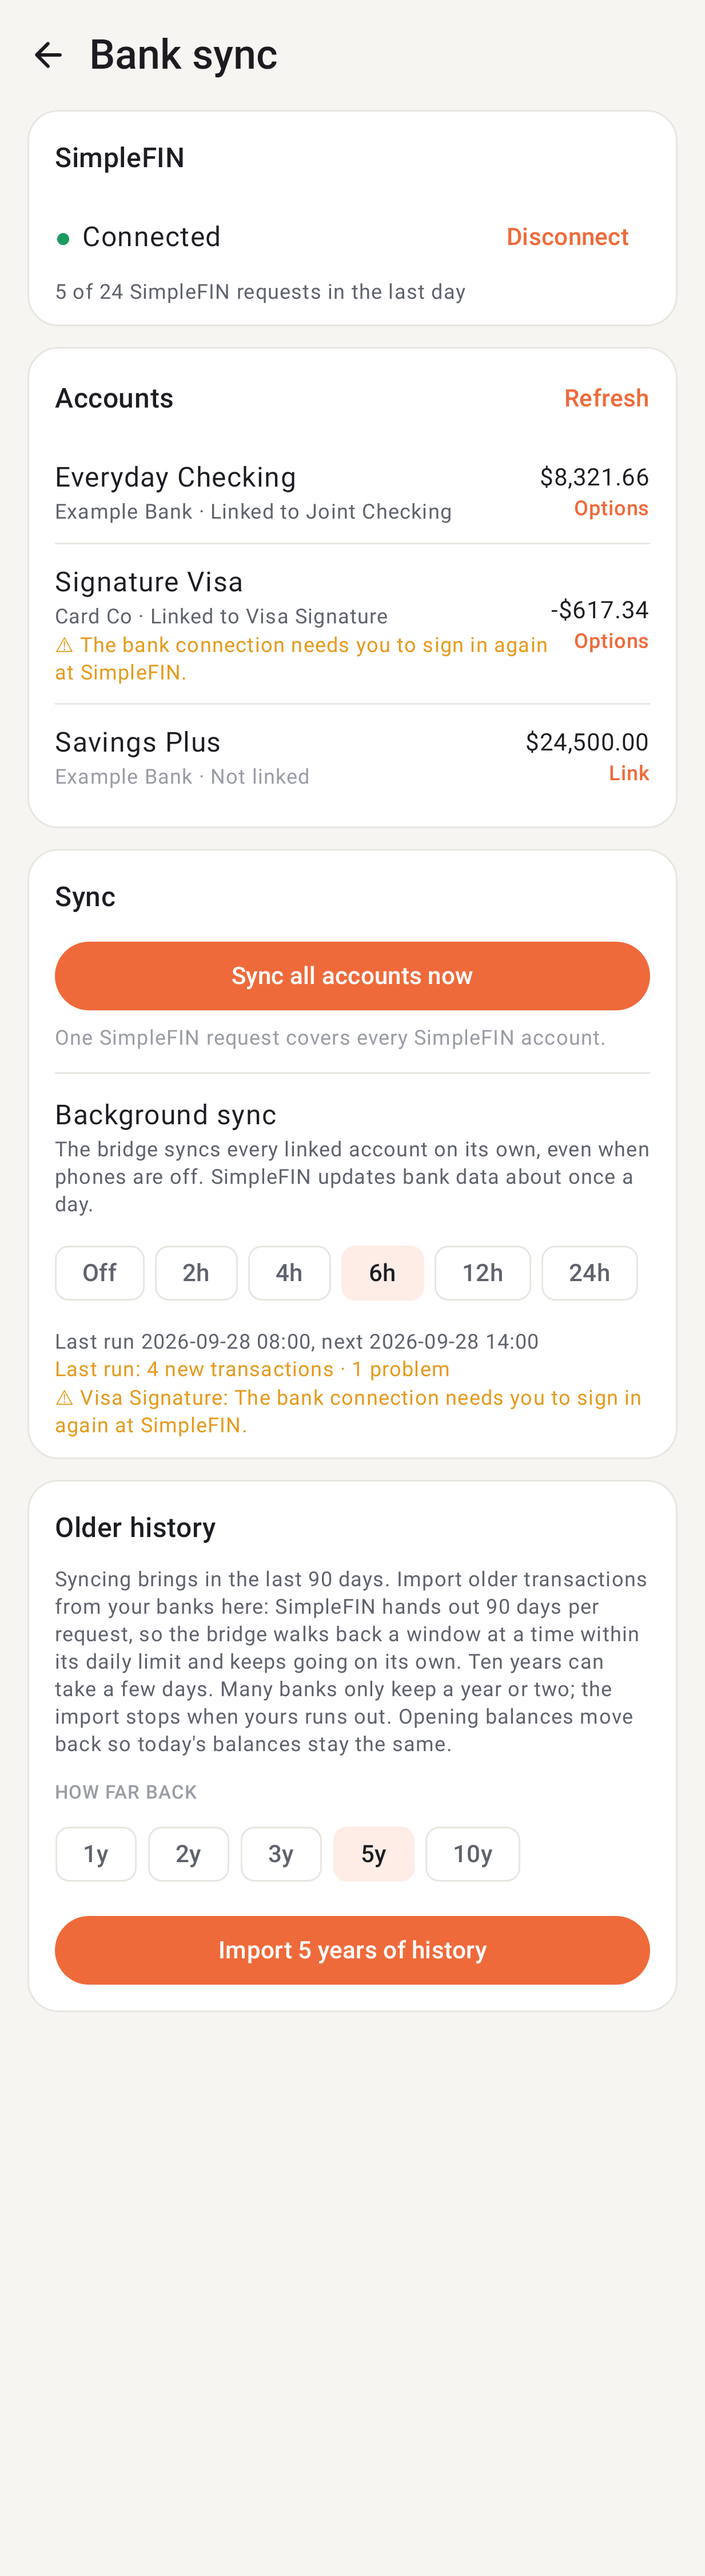
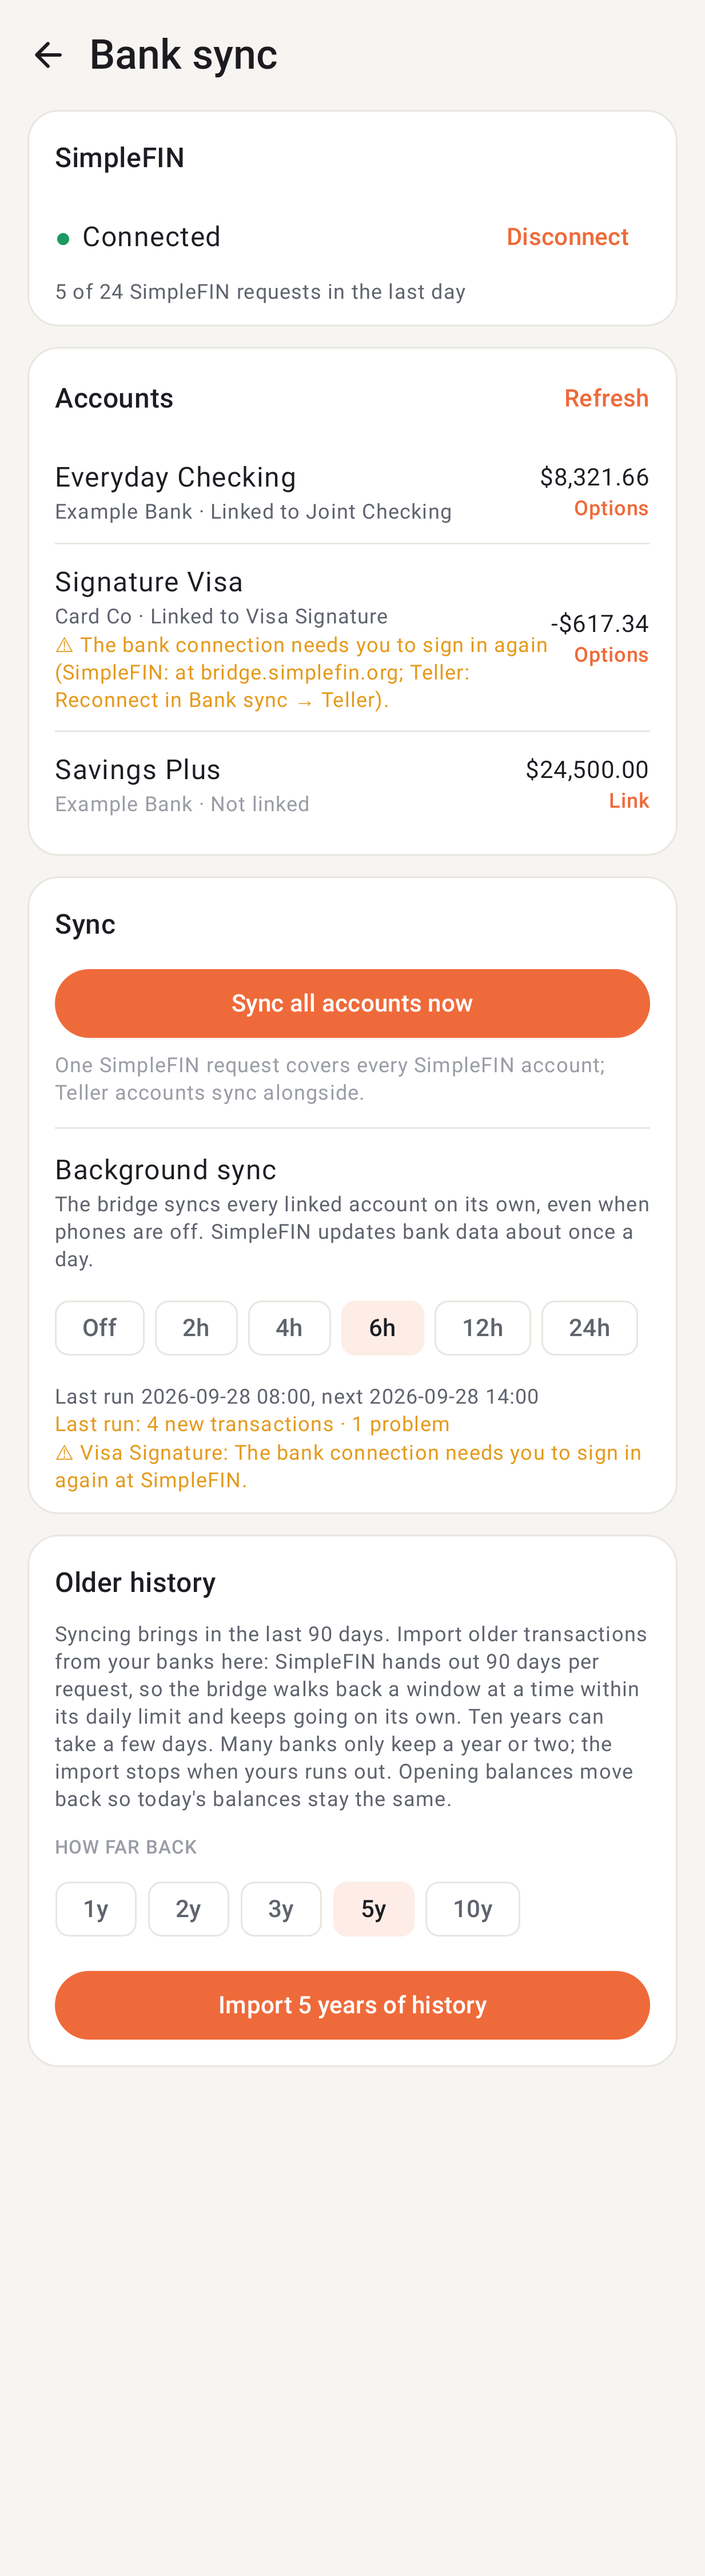
Pin the mortgage screen's date in tests; re-record bank sync screenshots
The mortgage screen reads today's date (the chart's marker and the setup form's
default first payment), so its screenshots stopped matching once the month
changed. CI only noticed now because unchanged code reused cached test
results. The screen takes today as a parameter (the app passes the real date)
and the test pins October 2026, when the references were recorded.

The bank sync screenshots change with the reworded sync hint and sign-in
message from the Teller work; re-recorded (only those five).

./gradlew test verifyRoborazziDebug and :app:assembleDebug pass locally.

Claude-Session: https://claude.ai/code/session_01E9nZUJQ6nbJ1aJxQDXZS29

Changed region(s): [[0.0616, 0.2178, 0.9246, 0.8089], [0.4315, 0.2489, 0.5547, 0.28], [0.6164, 0.2489, 0.6472, 0.28]]

diff --git a/android/feature/planning/src/main/kotlin/app/centsible/feature/planning/MortgageScreen.kt b/android/feature/planning/src/main/kotlin/app/centsible/feature/planning/MortgageScreen.kt
@@ -229,7 +229,8 @@ fun MortgageRoute(onBack: () -> Unit, viewModel: MortgageViewModel = hiltViewMod
 }
 
 @Composable
-fun MortgageScreen(state: MortgageUiState, actions: MortgageActions) {
+/** [today] is a parameter so screenshot tests can pin it; the app passes the real date. */
+fun MortgageScreen(state: MortgageUiState, actions: MortgageActions, today: LocalDate = LocalDate.now()) {
     val colors = CentsibleTheme.colors
     val snackbar = remember { SnackbarHostState() }
     LaunchedEffect(state.message) { state.message?.let { snackbar.showSnackbar(it); actions.messageShown() } }
@@ -250,7 +251,7 @@ fun MortgageScreen(state: MortgageUiState, actions: MortgageActions) {
             Loadable.Loading -> LoadingState(Modifier.padding(padding))
             is Loadable.Failed -> MessageState("Couldn't load your mortgage", d.message, emoji = "🏠", actionLabel = "Try again", onAction = actions.retry, modifier = Modifier.padding(padding))
             is Loadable.Ready -> when {
-                detail != null -> MortgageDetail(detail, state, actions, Modifier.padding(padding))
+                detail != null -> MortgageDetail(detail, state, actions, today, Modifier.padding(padding))
                 d.value.isEmpty() -> MessageState(
                     "Track your mortgage",
                     "See every payment's interest and principal, when it'll be paid off, and your home's value in net worth.",
@@ -270,7 +271,7 @@ fun MortgageScreen(state: MortgageUiState, actions: MortgageActions) {
             }
         }
     }
-    if (state.creating || state.editing != null) MortgageSheet(state.editing, state, onSave = actions.save, onDelete = actions.delete, onDismiss = { actions.create(false); actions.edit(null) })
+    if (state.creating || state.editing != null) MortgageSheet(state.editing, state, today, onSave = actions.save, onDelete = actions.delete, onDismiss = { actions.create(false); actions.edit(null) })
     state.valuing?.let { m -> HomeValueDialog(m, onSave = { actions.setHomeValue(m.id, it) }, onDismiss = { actions.value(null) }) }
 }
 
@@ -336,9 +337,9 @@ internal fun standing(m: Mortgage): Pair<String, Boolean> {
 }
 
 @Composable
-private fun MortgageDetail(m: Mortgage, state: MortgageUiState, actions: MortgageActions, modifier: Modifier) {
+private fun MortgageDetail(m: Mortgage, state: MortgageUiState, actions: MortgageActions, date: LocalDate, modifier: Modifier) {
     val colors = CentsibleTheme.colors
-    val today = LocalDate.now().toString()
+    val today = date.toString()
     val years = m.schedule.groupBy { it.date.take(4) }.toList()
     LazyColumn(modifier.fillMaxSize(), contentPadding = PaddingValues(start = 16.dp, end = 16.dp, top = 8.dp, bottom = 32.dp), verticalArrangement = Arrangement.spacedBy(12.dp)) {
         item { MortgageCard(m, state, actions, onClick = null) }
@@ -409,13 +410,13 @@ private fun BalanceChart(m: Mortgage, today: String, modifier: Modifier) {
 
 @OptIn(ExperimentalMaterial3Api::class)
 @Composable
-private fun MortgageSheet(existing: Mortgage?, state: MortgageUiState, onSave: (String?, MortgageInput) -> Unit, onDelete: (String) -> Unit, onDismiss: () -> Unit) {
+private fun MortgageSheet(existing: Mortgage?, state: MortgageUiState, today: LocalDate, onSave: (String?, MortgageInput) -> Unit, onDelete: (String) -> Unit, onDismiss: () -> Unit) {
     val colors = CentsibleTheme.colors
     var name by remember { mutableStateOf(existing?.name ?: "Mortgage") }
     var principal by remember { mutableStateOf(existing?.principal?.let(MoneyInput::toInput).orEmpty()) }
     var rate by remember { mutableStateOf(existing?.rate?.toString().orEmpty()) }
     var years by remember { mutableStateOf(existing?.termMonths?.let { if (it % 12 == 0) (it / 12).toString() else null } ?: "30") }
-    var first by remember { mutableStateOf(existing?.firstPayment ?: LocalDate.now().withDayOfMonth(1).toString()) }
+    var first by remember { mutableStateOf(existing?.firstPayment ?: today.withDayOfMonth(1).toString()) }
     var escrow by remember { mutableStateOf(existing?.escrow?.takeIf { it.minor > 0 }?.let(MoneyInput::toInput).orEmpty()) }
     var extra by remember { mutableStateOf(existing?.extra?.takeIf { it.minor > 0 }?.let(MoneyInput::toInput).orEmpty()) }
     var payee by remember { mutableStateOf(existing?.payeeId) }

diff --git a/android/feature/planning/src/test/kotlin/app/centsible/feature/planning/MortgageScreenshotTest.kt b/android/feature/planning/src/test/kotlin/app/centsible/feature/planning/MortgageScreenshotTest.kt
@@ -41,6 +41,8 @@ class MortgageScreenshotTest {
         rows
     }
     private val now = schedule.last { it.date <= "2026-09-30" }
+    /** The screenshots were recorded in October 2026; the screen's "today" is pinned there. */
+    private val day = java.time.LocalDate.parse("2026-10-01")
 
     private val mortgage = Mortgage(
         id = "m1", name = "House mortgage", principal = Money(30_000_000), rate = 6.0, termMonths = 360, firstPayment = "2023-01-01",
@@ -53,13 +55,13 @@ class MortgageScreenshotTest {
     )
 
     @Test fun mortgage_list() {
-        compose.setContent { CentsibleTheme(darkTheme = false) { MortgageScreen(MortgageUiState(Loadable.Ready(listOf(mortgage.copy(schedule = emptyList()))), canEdit = true), MortgageActions()) } }
+        compose.setContent { CentsibleTheme(darkTheme = false) { MortgageScreen(MortgageUiState(Loadable.Ready(listOf(mortgage.copy(schedule = emptyList()))), canEdit = true), MortgageActions(), today = day) } }
         compose.onRoot().captureRoboImage("screenshots/mortgage_list.png")
         app.centsible.core.uitesting.A11y.assertOk(compose)
     }
 
     @Test fun mortgage_detail_dark() {
-        compose.setContent { CentsibleTheme(darkTheme = true) { MortgageScreen(MortgageUiState(Loadable.Ready(listOf(mortgage)), detail = mortgage, canEdit = true), MortgageActions()) } }
+        compose.setContent { CentsibleTheme(darkTheme = true) { MortgageScreen(MortgageUiState(Loadable.Ready(listOf(mortgage)), detail = mortgage, canEdit = true), MortgageActions(), today = day) } }
         compose.onRoot().captureRoboImage("screenshots/mortgage_detail_dark.png")
         app.centsible.core.uitesting.A11y.assertOk(compose)
     }
@@ -67,7 +69,7 @@ class MortgageScreenshotTest {
     @Test fun mortgage_setup() {
         val accounts = listOf(AccountId("a") to "Joint Checking", AccountId("b") to "High-Yield Savings")
         val payees = listOf(PayeeId("p") to "Lakeside Mortgage", PayeeId("q") to "City Power")
-        compose.setContent { CentsibleTheme(darkTheme = false) { MortgageScreen(MortgageUiState(Loadable.Ready(emptyList()), accounts = accounts, payees = payees, canEdit = true, creating = true), MortgageActions()) } }
+        compose.setContent { CentsibleTheme(darkTheme = false) { MortgageScreen(MortgageUiState(Loadable.Ready(emptyList()), accounts = accounts, payees = payees, canEdit = true, creating = true), MortgageActions(), today = day) } }
         compose.waitForIdle()
         captureScreenRoboImage("screenshots/mortgage_setup.png")
     }
